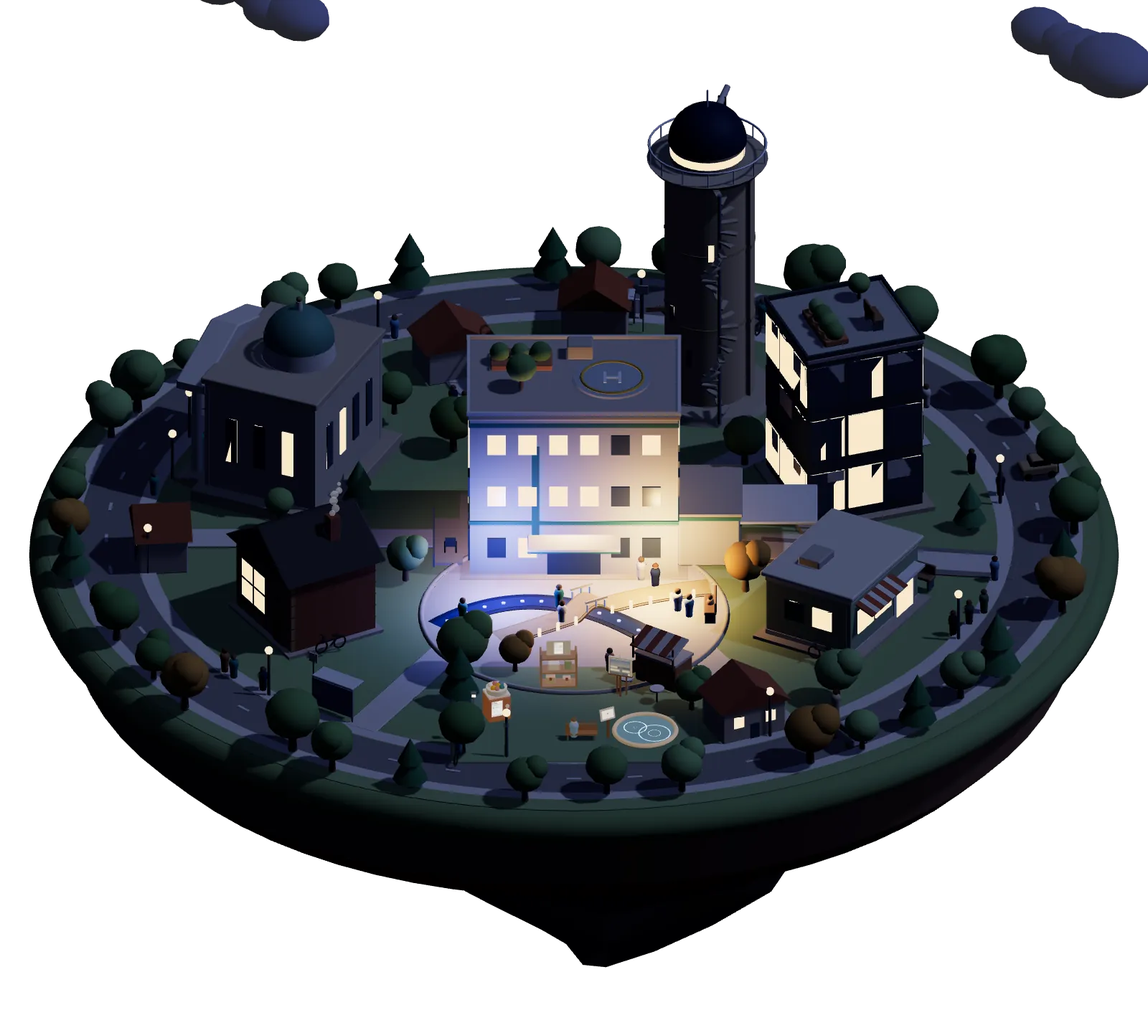
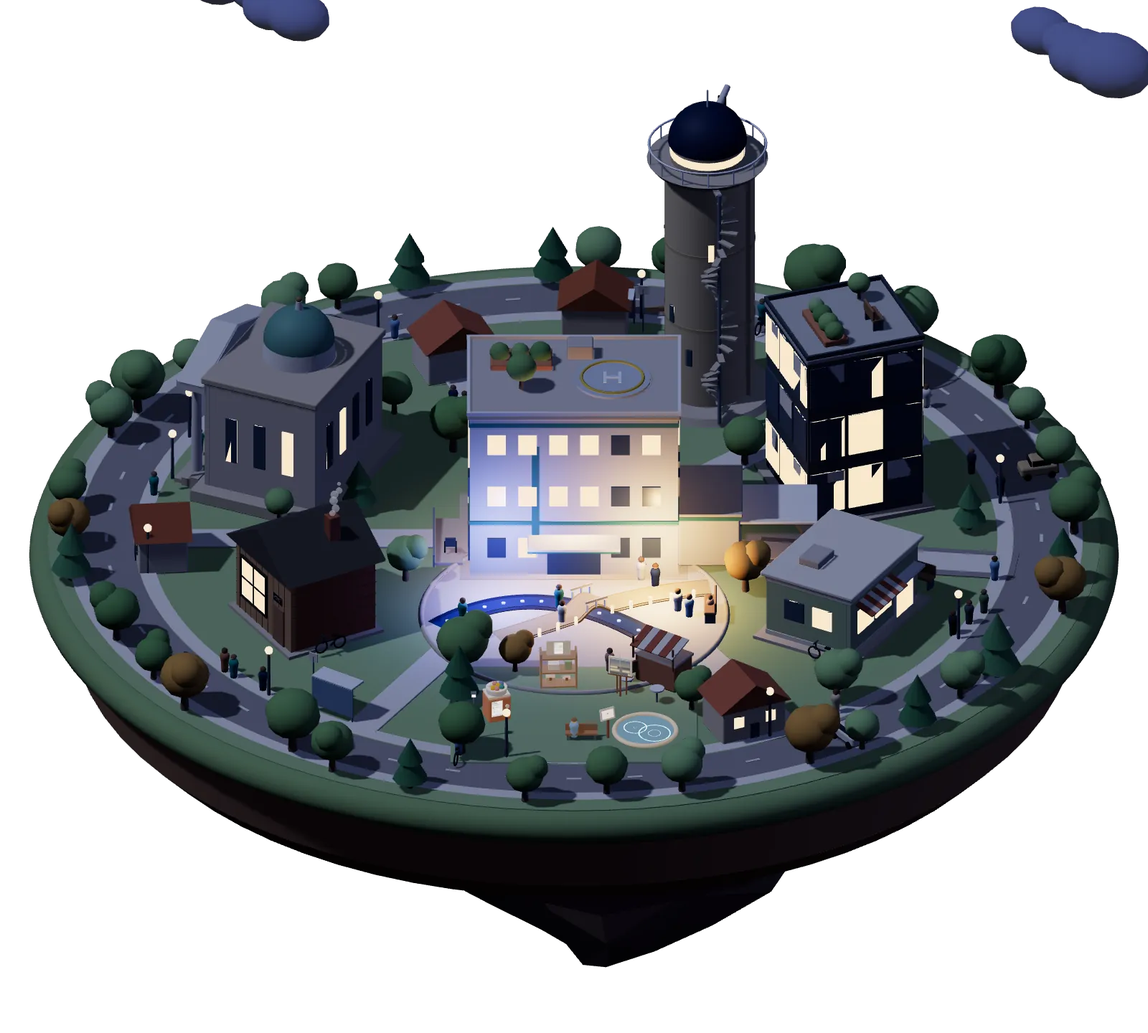
feat(top): 融合3「ひらく町」のプロトタイプ(未結線)
融合1 の町を土台に、数字付きの目印をやめて建物の形・色・小物で役割を伝える。建物にふれると
前の壁が倒れて屋根が抜け、中で働く人と、道具の物に貼った実際の画面が見える(融合2 の断面の
強み)。道具の行か物にふれると、その物に寄って画面が読める。町の真ん中で藍と砂の小道が交差し、
夜は2色に灯る。人・乗り物・建物の活動・見る人の時刻の昼夕夜。本番には適用しない。

Claude-Session: https://claude.ai/code/session_016dwt5JPBcjN3XLYgLUEaNS

Changed region(s): [[0.0, 0.0938, 0.9688, 0.8125], [0.875, 0.0, 1.0, 0.0938], [0.1875, 0.0, 0.2812, 0.0312]]

diff --git a/proto/top-ad/hiraku/live.js b/proto/top-ad/hiraku/live.js
@@ -134,10 +134,17 @@ export function live(o) {
   /* ---- 状態 ---- */
   const rot = new Spring(0, 7.5, 1), camX = new Spring(0, 7.5, 1), camY = new Spring(0, 7.5, 1), camZ = new Spring(0, 7.5, 1), elev = new Spring(ELEV, 7, 1);
   const dim = new Spring(0, 8, 1), lift = new Spring(0, 24, .55), hiAmt = new Spring(0, 11, 1), tod = new Spring(o.tod || 0, 4.2, 1), inLight = new Spring(0, 7, 1);
-  const slot = () => ({ id: null, wall: new Spring(0, 11, .5), roof: new Spring(0, 5.5, 1), end: 0, kind: 'hinge', t0: 0, steps: [] });
+  const nearK = new Spring(0, 6, 1);   // 道具に寄るとき、手前の物(人・机・上の階の床)を切り落とす面を、画面の少し手前まで進める
+  const slot = () => ({ id: null, wall: new Spring(0, 11, .5), roof: new Spring(0, 6, 1), roofT0: -1, end: 0, kind: 'hinge', t0: 0, steps: [] });
   let A = slot(), Bk = slot();
   let base = null, paused = false, running = false, visible = true, t = 0, last = clock(), lastInput = 0, dirty = true, frameN = 0;
-  let hover = null, liftId = null, invite = null, preRot = 0, dragOff = new Spring(0, 9, 1), openCam = null, curStation = null;
+  let hover = null, liftId = null, invite = null, preRot = 0, dragOff = new Spring(0, 9, 1), openCam = null, curStation = null, findSid = null, findC = null, turnTok = 0;
+  /* 後で一度だけ動かす段取り(時計の時刻で) */
+  const later = [];
+  function after(ms, f) { later.push({ at: clock() + ms, f }); later.sort((a, b) => a.at - b.at); }
+  /* 遠い建物ほど、島をゆっくり回す(回す角度に応じて、ばねを柔らかく) */
+  const turnW = a => a > .87 ? clamp(7.5 * Math.pow(.87 / a, .9), 3, 7.5) : 7.5;
+  function easeTurn(ms) { const tok = ++turnTok; rot.w = turnW(Math.abs(rot.t - rot.x)); after(ms, () => { if (tok === turnTok) rot.w = 7.5; }); }
   const interiors = {};
   let inK = 1;
   tod.set(o.tod || 0);
@@ -149,10 +156,13 @@ export function live(o) {
     const k = (CAPF.right - CAPF.left) / br.width, left = CAPF.left - (br.left - sr.left) * k, top = CAPF.top + (br.top - sr.top) * k;
     return { x: left + W * k / 2, y: top - H * k / 2, ppu: 1 / k };
   }
+  const nv = new THREE.Vector3();
   function setCamera() {
     aimCamera(camera, origin, elev.x);
     const ppu = Math.exp(camZ.x);
     camera.left = camX.x - W / 2 / ppu; camera.right = camX.x + W / 2 / ppu; camera.top = camY.x + H / 2 / ppu; camera.bottom = camY.x - H / 2 / ppu;
+    camera.near = .1;
+    if (findC && nearK.x > .001) { const fd = -nv.copy(findC).applyAxisAngle(Y, rot.x).applyMatrix4(camera.matrixWorldInverse).z; camera.near = .1 + Math.max(0, fd - .3) * clamp01(nearK.x); }
     camera.updateProjectionMatrix();
   }
   function resize() {
@@ -182,16 +192,50 @@ export function live(o) {
     return { rot: r, elev: el, x: bx - (scx - W / 2) / ppu, y: by + (scy - H / 2) / ppu, ppu };
   }
   function nearestRot(cur, target) { let d = ((target - cur) % TAU + TAU) % TAU; if (d > Math.PI) d -= TAU; return cur + d; }
+  /* 道具を見つける: その物の画面(中の形の、物ごとの板)が、見える範囲の約3割を占めるまで寄る */
+  function screenQuad(it, st) {
+    const sc = it.group.children.find(m => m.isMesh && !m.isInstancedMesh && m.material && m.material.map);
+    const P = sc && sc.geometry.attributes.position, i0 = st.index * 6;
+    if (!P || i0 + 6 > P.count) return null;
+    S.world.updateMatrixWorld(true);
+    const toIsland = new THREE.Matrix4().copy(S.world.matrixWorld).invert().multiply(sc.matrixWorld);
+    const vs = []; for (let i = 0; i < 6; i++) vs.push(new THREE.Vector3().fromBufferAttribute(P, i0 + i).applyMatrix4(toIsland));
+    const pts = vs.filter((v, i) => vs.findIndex(q => q.distanceToSquared(v) < 1e-10) === i);
+    const n = new THREE.Vector3().subVectors(vs[1], vs[0]).cross(new THREE.Vector3().subVectors(vs[2], vs[0])).normalize();
+    const c = pts.reduce((a, v) => a.add(v), new THREE.Vector3()).multiplyScalar(1 / pts.length);
+    return { pts, n, c };
+  }
+  function findFrame(sid) {
+    const it = A.id && interiors[A.id], st = it && it.stations.find(s => s.id === sid);
+    const q = st && screenQuad(it, st); if (!q) return null;
+    const bf = frameFor(A.id);
+    // 画面がこちらを向くまで島を回す。立てた画面はほぼ正面から、上を向いた画面は上から見る。
+    // 手前の物(人・机・壁・上の階の床)は、カメラの手前の面で切り落とす(setCamera の near)ので、見下ろさなくてよい
+    findC = q.c;
+    aimCamera(tmpCam, origin, bf.elev);
+    const phC = Math.atan2(tmpCam.position.x - origin.x, tmpCam.position.z - origin.z), hz = Math.hypot(q.n.x, q.n.z);
+    let r = bf.rot;
+    if (hz > .3) { let d = phC - Math.atan2(q.n.x, q.n.z) - bf.rot; d = Math.atan2(Math.sin(d), Math.cos(d)); r = bf.rot + d; }
+    const el = clamp(Math.asin(clamp(q.n.y, -1, 1)) + deg(5), deg(9), deg(60));
+    aimCamera(tmpCam, origin, el);
+    const m = new THREE.Matrix4().makeRotationY(r);
+    let x0 = 1e9, x1 = -1e9, y0 = 1e9, y1 = -1e9;
+    for (const p of q.pts) { const v = p.clone().applyMatrix4(m).applyMatrix4(tmpCam.matrixWorldInverse); x0 = Math.min(x0, v.x); x1 = Math.max(x1, v.x); y0 = Math.min(y0, v.y); y1 = Math.max(y1, v.y); }
+    const sf = o.safe(), sw = sf.r - sf.l, shh = sf.b - sf.t, w = Math.max(1e-3, x1 - x0), h = Math.max(1e-3, y1 - y0);
+    const ppu = Math.min(Math.sqrt(.3 * sw * shh / (w * h)), sw * .8 / w, shh * .66 / h, base.ppu * 40);
+    const bx = (x0 + x1) / 2, by = (y0 + y1) / 2, scx = (sf.l + sf.r) / 2, scy = (sf.t + sf.b) / 2;
+    return { rot: r, elev: el, x: bx - (scx - W / 2) / ppu, y: by + (scy - H / 2) / ppu, ppu };
+  }
   function retarget() {
     if (!A.id) { rot.t = preRot; camX.t = base.x; camY.t = base.y; camZ.t = Math.log(base.ppu); elev.t = ELEV; return; }
-    openCam = frameFor(A.id);
+    openCam = (findSid && findFrame(findSid)) || frameFor(A.id);
     rot.t = openCam.rot + dragOff.x; elev.t = openCam.elev; camX.t = openCam.x; camY.t = openCam.y; camZ.t = Math.log(openCam.ppu);
   }
 
   /* ---- 中の形(初めてひらいたときに作る)。画面のテクスチャも、そのとき読む ---- */
   const texLoader = new THREE.TextureLoader(), texCache = new Map();
   const ctx = {
-    palette: PALETTE, quality: small ? 'low' : 'high',
+    palette: PALETTE, quality: 'high',   // 寄ったときに何の画面か読めるよう、スマホでも画面の画像は細かく
     loadTexture(url) {
       if (!texCache.has(url)) texCache.set(url, texLoader.loadAsync(url).then(tx => { tx.colorSpace = THREE.SRGBColorSpace; tx.anisotropy = 4; dirty = true; kick(); return tx; }));
       return texCache.get(url);
@@ -225,7 +269,7 @@ export function live(o) {
     A.kind = id === 'plaza' || id === 'park' ? 'none' : BOXES[id].shape === 'tower' ? 'spin' : 'hinge';
     if (A.kind === 'hinge') { const b = S.B[id]; A.end = Math.PI / 2 + Math.asin(clamp((b.ex.y0 + .01) / BOXES[id].h, 0, .4)); }
     if (A.kind === 'spin') A.end = Math.PI;
-    dragOff.set(0);
+    dragOff.set(0); findSid = null; nearK.t = 0;
     U.uOpenA.value = LAYOUT[id].bid; U.uFocus.value = LAYOUT[id].bid; dim.t = .34;
     liftId = id; lift.t = 0;           // 乗せたときの浮き(.07)は戻す。中の形は浮かないので、外と中がずれないように
     lift.v = -.85;                     // 押した手応え
@@ -233,12 +277,16 @@ export function live(o) {
     interiorOf(id);
     const it = interiors[id];
     if (it) it.group.visible = true;
-    retarget();
     const reduce = o.reduce && o.reduce();
-    const at = ms => reduce ? 0 : ms;
+    openCam = frameFor(id); rot.t = openCam.rot;
+    const turn = Math.abs(rot.t - rot.x), wait = reduce || turn <= .87 ? 0 : Math.round((turn - .87) / turnW(turn) * 900);
+    easeTurn(wait + 1100);
+    if (wait) { camX.t = base.x; camY.t = base.y; camZ.t = Math.log(base.ppu); elev.t = ELEV; after(wait, () => { if (A.id === id) retarget(); }); }   // 回る間は町ぜんたいを見せる
+    else retarget();
+    const at = ms => reduce ? 0 : ms + wait;
     A.steps = [
+      ...(reduce ? [] : [{ t: at(230), f: () => { A.roofT0 = clock(); } }]),
       { t: at(330), f: () => { A.wall.t = A.end; } },
-      { t: at(420), f: () => { A.roof.t = 1; } },
       { t: at(520), f: () => { inLight.t = 1; } },
       ...stationSeq(id, at(700), reduce),
       { t: at(1150), f: () => { o.onOpened && o.onOpened(id); } }
@@ -250,16 +298,16 @@ export function live(o) {
     const it = interiors[id]; if (!it || !it.stations.length) return [];
     return [
       { t: t0, f: () => { if (it.reveal) it.reveal(); else it.stations.forEach(s => s.setActive(false)); } },
-      { t: t0 + (reduce ? 0 : it.stations.length * 60 + 320), f: () => setActive(it.stations[0].id) }
+      { t: t0 + (reduce ? 0 : it.stations.length * 60 + 320), f: () => setActive(findSid || it.stations[0].id) }
     ];
   }
-  function closeSlot(s) { s.wall.t = 0; s.roof.t = 0; s.steps = []; s.closing = true; const it = interiors[s.id]; if (it) for (const st of it.stations) { st.setActive(false); st.setHover(false); } }
+  function closeSlot(s) { s.wall.t = 0; s.roof.t = 0; s.roofT0 = -1; s.steps = []; s.closing = true; const it = interiors[s.id]; if (it) for (const st of it.stations) { st.setActive(false); st.setHover(false); } }
   function close() {
     lastInput = clock();
     if (!A.id) return;
     closeSlot(A); Bk = A; A = slot();
-    U.uOpenA.value = -1; U.uFocus.value = Bk.id ? LAYOUT[Bk.id].bid : -1; dim.t = 0; inLight.t = 0; curStation = null; dragOff.set(0);
-    retarget();
+    U.uOpenA.value = -1; U.uFocus.value = Bk.id ? LAYOUT[Bk.id].bid : -1; dim.t = 0; inLight.t = 0; curStation = null; dragOff.set(0); findSid = null; nearK.t = 0;
+    retarget(); easeTurn(1400);
     if (o.reduce && o.reduce()) { Bk.wall.set(0); Bk.roof.set(0); for (const s of [rot, camX, camY, camZ, elev, dim]) s.set(s.t); }
     kick();
   }
@@ -267,6 +315,16 @@ export function live(o) {
     const it = A.id && interiors[A.id]; if (!it) return;
     for (const s of it.stations) s.setActive(s.id === sid);
     curStation = sid; dirty = true; kick();
+  }
+  function find(sid) {
+    if (!A.id) return;
+    sid = sid || null; if (sid === findSid) return;
+    findSid = sid; lastInput = clock();
+    if (sid) { findC = null; setActive(sid); }
+    retarget(); nearK.t = sid && findC ? 1 : 0; easeTurn(1200);
+    if (o.reduce && o.reduce()) for (const s of [rot, camX, camY, camZ, elev, nearK]) s.set(s.t);
+    else if (sid) after(450, () => { if (findSid === sid) retarget(); });   // 物が持ち上がりきった位置で、もう一度合わせる
+    kick();
   }
   function stationHover(sid) {
     const it = A.id && interiors[A.id]; if (!it) return;
@@ -285,14 +343,13 @@ export function live(o) {
     const z = b.d / 2 + E + WALL;
     return out.makeTranslation(0, 0, z).multiply(tmpM.makeRotationX(s.wall.x)).multiply(new THREE.Matrix4().makeTranslation(0, 0, -z));
   }
-  function roofLocal(s, out) { const k = s.roof.x; return out.makeTranslation(0, k * (s.id === 'observatory' ? 2.6 : 2.2), 0); }
-  const roofCut = k => 1 - clamp01((k - .12) / .4);
+  function roofLocal(s, out) { return out.makeTranslation(0, s.roof.x * 7, 0); }
   function slotMats(s, iF, iR, idU, cutU) {
     if (!s.id || s.kind === 'none') { U[idU].value = s.id && s.kind === 'none' ? -1 : -1; U[cutU].value = 1; U.uPM.value[iF].identity(); U.uPM.value[iR].identity(); return; }
     bldM(s.id);
     U.uPM.value[iF].copy(tb).multiply(wallLocal(s, lm)).multiply(tbi);
     U.uPM.value[iR].copy(tb).multiply(roofLocal(s, lm)).multiply(tbi);
-    U[idU].value = LAYOUT[s.id].bid; U[cutU].value = roofCut(s.roof.x);
+    U[idU].value = LAYOUT[s.id].bid; U[cutU].value = !s.closing && s.roof.x > .999 ? 0 : 1;
   }
   function signMats() {
     for (const sg of S.signs) {
@@ -399,7 +456,7 @@ export function live(o) {
   document.addEventListener('visibilitychange', () => { if (!document.hidden) kick(); });
 
   /* ---- 1こま ---- */
-  const springs = [rot, camX, camY, camZ, elev, dim, lift, hiAmt, tod, inLight, dragOff];
+  const springs = [rot, camX, camY, camZ, elev, dim, lift, hiAmt, tod, inLight, dragOff, nearK];
   function kick() { if (manual) { dirty = true; return; } if (!running) { running = true; last = clock(); requestAnimationFrame(loop); } }
   function loop(now) { frame(now); }
   function frame(now, force) {
@@ -409,11 +466,14 @@ export function live(o) {
     if (!down && !A.id && Math.abs(inertia) > .002) { rot.x += inertia * dt; rot.t = rot.x; inertia *= Math.pow(.05, dt); }
     if (A.id) rot.t = (openCam ? openCam.rot : rot.t) + dragOff.x;
     // 段取り
+    while (later.length && later[0].at <= now) later.shift().f();
     for (const s of [A, Bk]) if (s.id && s.steps.length) { const el = now - s.t0; while (s.steps.length && s.steps[0].t <= el) s.steps.shift().f(); }
     // ばね
     for (const s of springs) s.step(dt);
     for (const s of [A, Bk]) if (s.id) {
-      s.wall.step(dt); s.roof.step(dt);
+      s.wall.step(dt);
+      if (!s.closing && s.roofT0 >= 0) { const u = clamp01((now - s.roofT0) / 480); s.roof.set(u * u); if (u >= 1) s.roofT0 = -1; }   // 持ち上がり、加速して上へ抜ける
+      else s.roof.step(dt);
       if (s.kind === 'hinge' && !s.closing && s.wall.x > s.end) { s.wall.x = s.end; if (s.wall.v > 0) s.wall.v = -s.wall.v * .3; }
       if (s.closing && s.wall.x < 0) { s.wall.x = 0; s.wall.v = 0; }
     }
@@ -449,7 +509,7 @@ export function live(o) {
     for (const id in interiors) { const it = interiors[id]; if (it && it.group.visible) it.update(dt, t, tod.x < .5 ? 'day' : tod.x < 1.5 ? 'dusk' : 'night'); }
     S.world.rotation.y = rot.x;
     setCamera();
-    const active = springs.some(s => s.moving) || [A, Bk].some(s => s.id && (s.wall.moving || s.roof.moving || s.steps.length)) || down || Math.abs(inertia) > .002 || invite;
+    const active = springs.some(s => s.moving) || [A, Bk].some(s => s.id && (s.wall.moving || s.roof.moving || s.steps.length || s.roofT0 >= 0)) || later.length || down || Math.abs(inertia) > .002 || invite;
     const idle = !active && now - lastInput > 1600;
     // 操作していないときは 30fps
     if (manual && !force) return;
@@ -490,7 +550,8 @@ export function live(o) {
   kick();
   modP.then(() => {});
   return {
-    open, close, setActive, stationHover, info, renderer,
+    open, close, setActive, stationHover, find, info, renderer,
+    get findId() { return findSid; },
     hover(id) { setHover(id); },
     press(id) { liftId = id; lift.v = -.85; kick(); },
     invite: doInvite,

diff --git a/proto/top-ad/hiraku/hiraku.js b/proto/top-ad/hiraku/hiraku.js
@@ -114,42 +114,81 @@ function boot() {
     a.addEventListener('mouseenter', () => { if (ctl || openId) return; showTag(id, true, true); });
     a.addEventListener('mouseleave', () => { if (ctl || openId) return; showTag(null); });
   }
+  /* パネルの行: 本体は「中で見る」ボタン(その物に寄る)、右の「開く」は道具へのリンク。広場(考え方)は中がないので、行ぜんたいがリンク */
+  const GO = '開く<svg class="ico" viewBox="0 0 24 24" aria-hidden="true"><path d="M5 12h14M13 6l6 6-6 6"/></svg>';
+  const mouseHover = matchMedia('(hover: hover) and (pointer: fine)');
   function fillPanel(id) {
-    const b = BY_ID[id];
+    const b = BY_ID[id], inside = id !== 'plaza';
     panel.style.setProperty('--mk', b.mark);
     pRole.textContent = b.role; pTitle.textContent = b.name; pLine.textContent = b.line;
-    pTools.innerHTML = '';
+    pTools.innerHTML = ''; defSid = b.tools[0]; pinSid = hovSid = focSid = null;
     for (const tid of b.tools) {
-      const t = TOOLS[tid], li = document.createElement('li'), a = document.createElement('a');
-      a.className = 'ptool'; a.href = t.href; a.dataset.sid = tid;
-      if (t.ext) { a.target = '_blank'; a.rel = 'noopener noreferrer'; }
+      const t = TOOLS[tid], li = document.createElement('li'); li.className = 'prow'; li.dataset.sid = tid;
+      const body = document.createElement(inside ? 'button' : 'a'); body.className = 'pfind';
       const nb = document.createElement('b'); nb.textContent = t.name;
       if (t.status) { const c = document.createElement('span'); c.className = 'chip'; c.textContent = t.status; nb.append(c); }
       const tt = document.createElement('span'); tt.className = 't'; tt.textContent = t.t;
-      a.append(nb, tt);
-      if (t.note || t.ext) { const n = document.createElement('span'); n.className = 'n'; n.textContent = t.note || '別のサイト'; a.append(n); }
-      const go = document.createElement('span'); go.className = 'go'; go.innerHTML = '開く<svg class="ico" viewBox="0 0 24 24" aria-hidden="true"><path d="M5 12h14M13 6l6 6-6 6"/></svg>';
-      a.append(go);
-      a.addEventListener('mouseenter', () => rowHover(tid, true)); a.addEventListener('mouseleave', () => rowHover(tid, false));
-      a.addEventListener('focus', () => rowHover(tid, true)); a.addEventListener('blur', () => rowHover(tid, false));
-      li.append(a); pTools.append(li);
+      body.append(nb, tt);
+      if (t.note || t.ext) { const n = document.createElement('span'); n.className = 'n'; n.textContent = t.note || '別のサイト'; body.append(n); }
+      const go = document.createElement(inside ? 'a' : 'span'); go.className = 'go'; go.innerHTML = GO;
+      const link = inside ? go : body;
+      link.href = t.href; if (t.ext) { link.target = '_blank'; link.rel = 'noopener noreferrer'; }
+      if (inside) {
+        body.type = 'button'; body.setAttribute('aria-label', t.name + 'を中で見る'); body.setAttribute('aria-pressed', 'false');
+        go.setAttribute('aria-label', t.name + 'を開く' + (t.ext ? '(別のサイト)' : ''));
+        body.addEventListener('click', () => rowPick(tid));
+        li.addEventListener('mouseenter', () => rowEnter(tid));
+        for (const el of [body, go]) el.addEventListener('focus', () => { if (el.matches(':focus-visible')) { focSid = tid; applyFind(); } });
+      }
+      li.append(body, go); pTools.append(li);
     }
     // 動かないとき: その建物の断面の止めた画像
     const showStill = !ctl;
     pStill.hidden = !showStill;
-    if (showStill) { const im = pStill.querySelector('img'); im.src = 'img/cut-' + id + '.webp'; im.alt = b.name + 'の中。' + b.line + 'の道具が置かれている'; im.onerror = () => { im.onerror = null; im.src = 'img/b-' + id + '.webp'; }; }
-    markRow(b.tools[0]);
+    if (showStill) stillShot(null);
+    markRow(defSid);
   }
-  function markRow(sid) { for (const a of $$('.ptool', pTools)) a.classList.toggle('on', a.dataset.sid === sid); }
-  function rowHover(sid, on) {
-    if (on) { markRow(sid); if (ctl) ctl.stationHover(sid); requestAnimationFrame(() => showSTag(sid)); }
-    else { if (ctl) ctl.stationHover(null); showSTag(null); }
+  function markRow(sid) { for (const li of $$('.prow', pTools)) li.classList.toggle('on', li.dataset.sid === sid); }
+
+  /* ---------- 道具を見つける: 行(PC は乗せる・Tab、スマホは行を押す)か中の物を押すと、その物に寄る。外すと建物ぜんたいに戻る ---------- */
+  let defSid = null, pinSid = null, hovSid = null, focSid = null, hovT = 0;
+  /* パネルが出た直後、止まっているマウスの下に来た行では寄らない(マウスを実際に動かしてから) */
+  let mouseXY = [-1, -1], armXY = null;
+  addEventListener('mousemove', e => { mouseXY = [e.clientX, e.clientY]; }, { passive: true });
+  pTools.addEventListener('mousemove', e => { if (armXY && Math.hypot(e.clientX - armXY[0], e.clientY - armXY[1]) > 4) { armXY = null; const li = e.target.closest('.prow'); if (li) rowEnter(li.dataset.sid); } });
+  const findNow = () => hovSid || focSid || pinSid;
+  function applyFind() {
+    const sid = findNow();
+    markRow(sid || defSid);
+    for (const li of $$('.prow', pTools)) { const bt = li.querySelector('button.pfind'); if (bt) bt.setAttribute('aria-pressed', String(li.dataset.sid === pinSid)); }
+    if (ctl) { ctl.find(sid); ctl.stationHover(sid); showSTag(null); }   // 寄っているときは、画面そのものが答え(名前の札は出さない)
+    else stillShot(sid);
+  }
+  function clearFind() { clearTimeout(hovT); pinSid = hovSid = focSid = null; }
+  function rowEnter(sid) {
+    if (!mouseHover.matches || armXY) return;
+    markRow(sid); if (ctl) ctl.stationHover(sid);
+    clearTimeout(hovT); hovT = setTimeout(() => { hovSid = sid; applyFind(); }, 110);   // 行の上を通り過ぎただけでは動かさない
+  }
+  pTools.addEventListener('mouseleave', () => { if (!mouseHover.matches) return; clearTimeout(hovT); hovT = setTimeout(() => { hovSid = null; applyFind(); }, 220); });
+  pTools.addEventListener('focusout', e => { if (focSid && !pTools.contains(e.relatedTarget)) { focSid = null; applyFind(); } });
+  function rowPick(sid) {
+    const go = () => { pinSid = pinSid === sid ? null : sid; if (!pinSid && hovSid === sid) hovSid = null; applyFind(); };
+    // スマホでシートを広げているときは、物が見える高さに戻してから寄る
+    if (phone() && panel.classList.contains('full')) { panel.classList.remove('full'); setTimeout(go, 340); } else go();
+  }
+  /* 動かないとき(動きを減らす・WebGL なし): 寄る代わりに、その道具の画面をパネルに出す */
+  function stillShot(sid) {
+    const im = pStill.querySelector('img'), t = sid && TOOLS[sid], b = BY_ID[openId];
+    im.onerror = null;
+    if (t && t.thumb) { im.src = '../../../images/products/thumbs/' + t.thumb + '.webp'; im.alt = t.name + 'の画面'; }
+    else if (b) { im.src = 'img/cut-' + openId + '.webp'; im.alt = b.name + 'の中。' + b.line + 'の道具が置かれている'; im.onerror = () => { im.onerror = null; im.src = 'img/b-' + openId + '.webp'; }; }
   }
   function openB(id, from) {
     if (openId === id) return;
     const wasOpen = !!openId;
     openId = id; opener = from || hits.get(id);
-    showTag(null); hoverId = null;
+    showTag(null); hoverId = null; clearFind(); armXY = mouseXY.slice();
     fillPanel(id);
     R.classList.add('opened');
     if (ctl) ctl.open(id);
@@ -162,7 +201,7 @@ function boot() {
   }
   function closeB(back = true) {
     if (!openId) return;
-    const id = openId; openId = null;
+    const id = openId; openId = null; clearFind();
     panel.hidden = true; R.classList.remove('opened'); showSTag(null);
     if (ctl) ctl.close();
     if (back && opener) opener.focus({ preventScroll: true });
@@ -219,9 +258,13 @@ function boot() {
         },
         onHover(id) { hoverId = id; if (openId) return; if (id) { firstTouchSoft(); showTag(id, true, true); } else showTag(null); },
         onPress() { firstTouch(); },
-        onPick(id) { firstTouch(); if (id === openId) return; openB(id, hits.get(id)); },
-        onEmpty() { if (openId) closeB(false); },
-        onStation(sid, how) { if (!openId) return; if (sid) { markRow(sid); showSTag(sid); } else showSTag(null); if (how === 'tap' && sid) { const a = $(`.ptool[data-sid="${CSS.escape(sid)}"]`, pTools); if (a) a.scrollIntoView({ block: 'nearest', behavior: reduce() ? 'auto' : 'smooth' }); } },
+        onPick(id) { firstTouch(); if (id === openId) { if (findNow()) { clearFind(); applyFind(); } return; } openB(id, hits.get(id)); },
+        onEmpty() { if (!openId) return; if (findNow()) { clearFind(); applyFind(); } else closeB(false); },   // 寄っているときは、まず建物ぜんたいに戻る
+        onStation(sid, how) {
+          if (!openId) return;
+          if (how === 'tap' && sid) { pinSid = sid; applyFind(); const li = $(`.prow[data-sid="${CSS.escape(sid)}"]`, pTools); if (li) li.scrollIntoView({ block: 'nearest', behavior: reduce() ? 'auto' : 'smooth' }); return; }
+          if (sid) { markRow(sid); if (!findNow()) showSTag(sid); } else { markRow(findNow() || defSid); showSTag(null); }
+        },
         onLayout(L2) {
           const hr = heroRect(), cr = canvas.getBoundingClientRect(), ox = cr.left - hr.left, oy = cr.top - hr.top;
           for (const [id, a] of hits) { const p = L2.b[id]; if (!p) continue; tagPos[id] = [ox + p.tag[0], oy + p.tag[1]]; placeHit(a, ox + p.c[0], oy + p.c[1], 64, 64); }

diff --git a/proto/top-ad/hiraku/index.html b/proto/top-ad/hiraku/index.html
@@ -151,16 +151,20 @@ html:not(.js) .hit{outline:0}
 .p-still{margin:4px 12px 14px;border-radius:10px;overflow:hidden;background:#E9E3D8}
 .p-still img{width:100%;height:auto}
 .p-tools li + li{border-top:1px solid var(--line)}
-.ptool{display:grid;grid-template-columns:minmax(0,1fr) auto;align-items:center;gap:4px 14px;padding:13px 12px;border-radius:10px;text-decoration:none;color:inherit;transition:background-color .15s}
-.ptool b{font-size:15.5px;letter-spacing:.02em}
-.ptool .t{grid-column:1;font-size:12.5px;line-height:1.6;color:var(--ink-2)}
-.ptool .n{grid-column:1;font-size:11.5px;color:var(--ink-3)}
-.ptool .go{grid-column:2;grid-row:1 / span 3;display:inline-flex;align-items:center;gap:6px;font-size:12.5px;font-weight:700;color:var(--indigo);white-space:nowrap}
-.ptool .go .ico{width:15px;height:15px;transition:transform .15s}
-.ptool .chip{display:inline-block;margin-left:8px;padding:2px 7px;border-radius:4px;background:var(--paper-2);font-size:11px;font-weight:700;color:var(--ink-3);vertical-align:2px}
-.ptool:hover,.ptool.on{background:#fff;box-shadow:0 0 0 1px var(--line)}
-.ptool:hover .go .ico,.ptool.on .go .ico{transform:translateX(3px)}
-.ptool.on{box-shadow:0 0 0 1px var(--line),inset 3px 0 0 var(--mk,#999)}
+/* 行: 本体は「中で見る」(その物に寄る)、右の「開く」は道具へ */
+.prow{display:grid;grid-template-columns:minmax(0,1fr) auto;align-items:center;border-radius:10px;transition:background-color .15s,box-shadow .15s}
+.pfind{display:grid;gap:4px;width:100%;min-height:44px;padding:13px 6px 13px 12px;border-radius:10px;text-align:left;text-decoration:none;color:inherit;cursor:pointer;-webkit-tap-highlight-color:transparent}
+.pfind b{font-size:15.5px;letter-spacing:.02em}
+.pfind .t{font-size:12.5px;line-height:1.6;color:var(--ink-2)}
+.pfind .n{font-size:11.5px;color:var(--ink-3)}
+.prow .go{display:inline-flex;align-items:center;gap:6px;min-height:44px;margin-right:4px;padding:0 10px;border-radius:8px;font-size:12.5px;font-weight:700;color:var(--indigo);white-space:nowrap;text-decoration:none;-webkit-tap-highlight-color:transparent}
+@media (hover:hover){a.go:hover{background:var(--paper-2)}}
+.prow .go .ico{width:15px;height:15px;transition:transform .15s}
+@media (hover:hover){.prow .go:hover .ico,.prow a.pfind:hover + .go .ico{transform:translateX(3px)}}
+.prow .chip{display:inline-block;margin-left:8px;padding:2px 7px;border-radius:4px;background:var(--paper-2);font-size:11px;font-weight:700;color:var(--ink-3);vertical-align:2px}
+.prow.on{background:#fff;box-shadow:0 0 0 1px var(--line)}
+@media (hover:hover){.prow:hover{background:#fff;box-shadow:0 0 0 1px var(--line)}}
+.prow.on{box-shadow:0 0 0 1px var(--line),inset 3px 0 0 var(--mk,#999)}
 .p-grab{display:none}
 
 /* ================= 下の節(短く) ================= */
@@ -232,7 +236,7 @@ html:not(.js) .hit{outline:0}
   .nav{display:none}
   .menu{display:inline-flex}
   .copy{left:var(--pad);right:var(--pad);top:calc(64px + env(safe-area-inset-top,0px))}
-  .still{width:min(138vw,calc((100svh - 360px) * 1.111));top:calc(154px + env(safe-area-inset-top,0px))}
+  .still{width:min(132vw,calc((100svh - 360px) * 1.111));top:calc(162px + env(safe-area-inset-top,0px));transform:translateX(-48.5%)}
   .cta-wrap{left:var(--pad);right:var(--pad);bottom:calc(18px + env(safe-area-inset-bottom,0px))}
   .ctrl{right:calc(var(--pad) - 6px);bottom:calc(112px + env(safe-area-inset-bottom,0px))}
   .hint{left:var(--pad);right:var(--pad);bottom:calc(122px + env(safe-area-inset-bottom,0px));padding-right:96px;text-align:left}

diff --git a/proto/top-ad/hiraku/world.js b/proto/top-ad/hiraku/world.js
@@ -599,7 +599,7 @@ export function placeSmall(dyn, t, steamOn) {
 const TOD = [
   { hemiS: '#EDF3F8', hemiG: '#CDBB9F', hemi: 1.18, sun: '#FFF3E2', sunI: 2.45, sunPos: [-2.5, 15, 12.5], fill: '#DCE7F4', fillI: .6, exp: 1.07, glow: 0, pt: 0 },
   { hemiS: '#F3D3C0', hemiG: '#9A7F70', hemi: .82, sun: '#FFAE7A', sunI: 2.0, sunPos: [-15, 5.5, 3], fill: '#B4AEDF', fillI: .5, exp: .98, glow: .55, pt: .35 },
-  { hemiS: '#4D5A8C', hemiG: '#24223A', hemi: .62, sun: '#A6B6EA', sunI: .6, sunPos: [8, 14, -6], fill: '#6F7DC2', fillI: .28, exp: 1.06, glow: 1, pt: 1 }
+  { hemiS: '#64729F', hemiG: '#302D48', hemi: .86, sun: '#B9C7F2', sunI: 1.0, sunPos: [-5, 14, 9], fill: '#7684C6', fillI: .34, exp: 1.06, glow: 1, pt: 1 }   // 夜: 手前の左上から月明かり。形と屋根の色が読めるように
 ];
 const _c1 = new THREE.Color(), _c2 = new THREE.Color();
 export function makeLights(scene, mapSize) {
